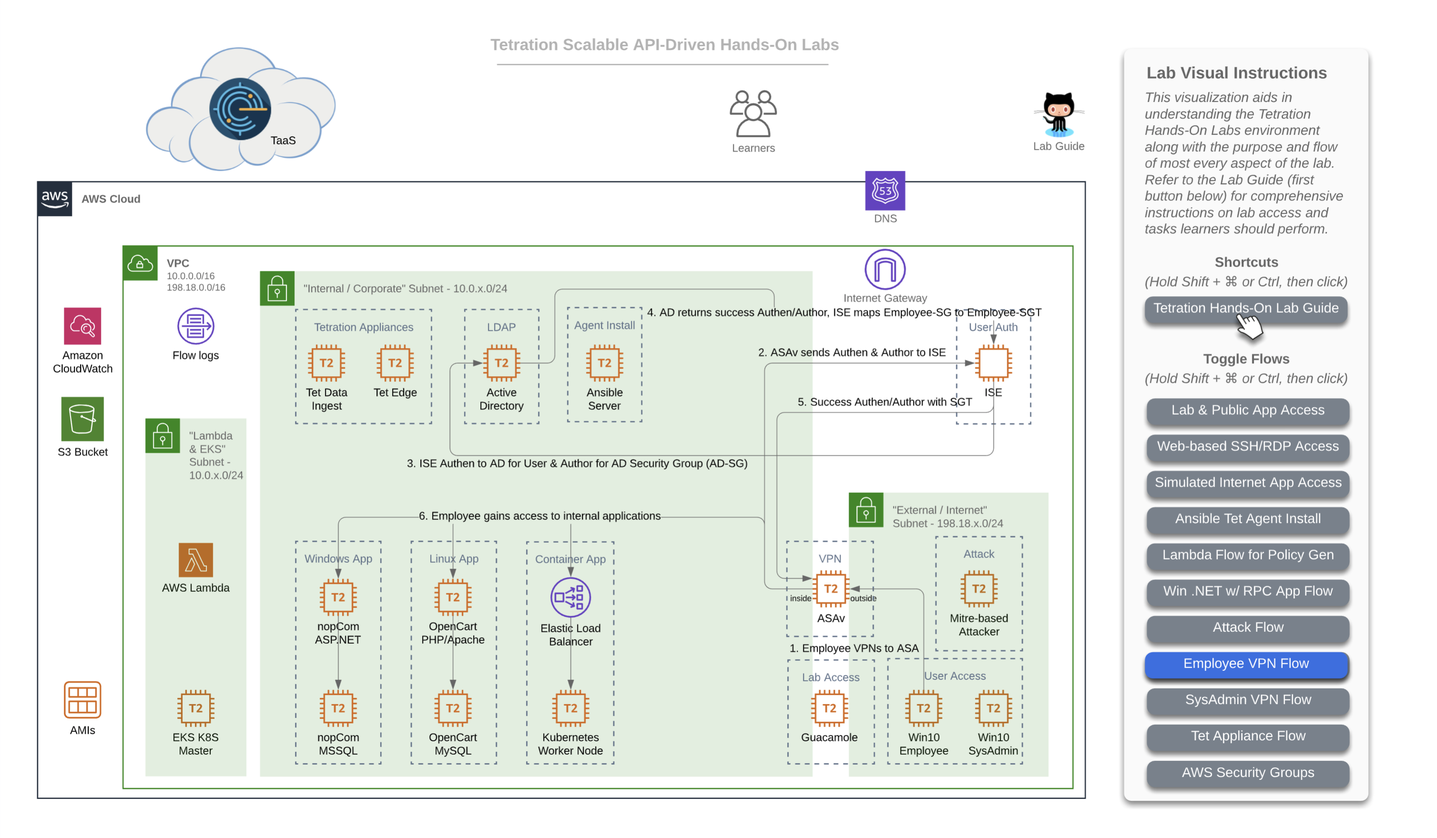
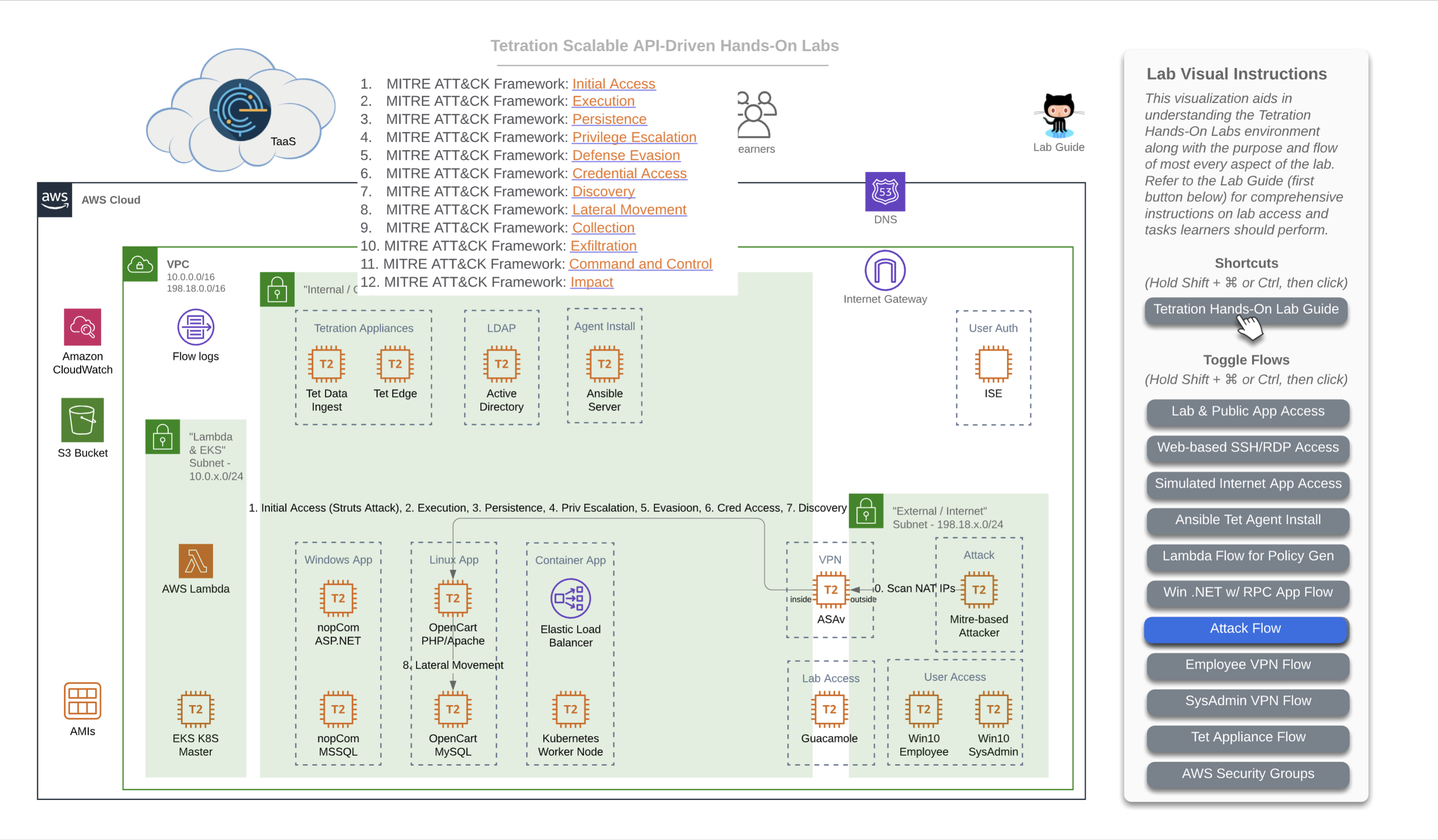
corrected numbering on diagrams readme

diff --git a/labguide/diagrams/README.md b/labguide/diagrams/README.md
@@ -3,108 +3,221 @@
 ## Diagrams
   
 
-### Steps for this Module  
-<a href="#step-000" style="font-weight:bold">Step 000</a>  
-<a href="#step-001" style="font-weight:bold">Step 001</a>  
-<a href="#step-002" style="font-weight:bold">Step 002</a>  
-<a href="#step-003" style="font-weight:bold">Step 003</a>  
-<a href="#step-004" style="font-weight:bold">Step 004</a>  
-<a href="#step-005" style="font-weight:bold">Step 005</a>  
-<a href="#step-006" style="font-weight:bold">Step 006</a>  
-<a href="#step-007" style="font-weight:bold">Step 007</a>  
-<a href="#step-008" style="font-weight:bold">Step 008</a>  
-<a href="#step-009" style="font-weight:bold">Step 009</a>  
-<a href="#step-010" style="font-weight:bold">Step 010</a>  
-<a href="#step-011" style="font-weight:bold">Step 011</a>  
-<a href="#step-012" style="font-weight:bold">Step 012</a>  
-<a href="#step-013" style="font-weight:bold">Step 013</a>  
+### Diagrams for this Module
+<a href="#diagram-001" style="font-weight:bold">Diagram 001 - Interactive Diagram Toggle Flows</a>  
+<a href="#diagram-002" style="font-weight:bold">Diagram 002 - Interactive Diagram Clickable Hotspots</a>  
+<a href="#diagram-003" style="font-weight:bold">Diagram 003 - Base Diagram</a>  
+<a href="#diagram-004" style="font-weight:bold">Diagram 004 - Access to TaaS, Lab Guide, and Public Access to Apps</a>  
+<a href="#diagram-005" style="font-weight:bold">Diagram 005 - Access to Lab Environment</a>  
+<a href="#diagram-006" style="font-weight:bold">Diagram 006 - Lab Simulated Internet Access</a>  
+<a href="#diagram-007" style="font-weight:bold">Diagram 007 - Tetration Agent Deployment via Ansible</a>  
+<a href="#diagram-008" style="font-weight:bold">Diagram 008 - Lambda Traffic Generation for ADM</a>  
+<a href="#diagram-009" style="font-weight:bold">Diagram 009 - Windows .NET App Flow with RPC Calls to AD</a>  
+<a href="#diagram-010" style="font-weight:bold">Diagram 010 - MITRE ATT&CK Framework-based Attack Flow</a>  
+<a href="#diagram-011" style="font-weight:bold">Diagram 011 - Simulated Internet "Employee" VPN Flow with ISE SGT Assignment</a>  
+<a href="#diagram-012" style="font-weight:bold">Diagram 012 - Simulated Internet "SysAdmin" VPN Flow with ISE SGT Assignment</a>  
+<a href="#diagram-013" style="font-weight:bold">Diagram 013 - Tetration Edge & Data Ingest Appliance Traffic Flows</a>  
+<a href="#diagram-014" style="font-weight:bold">Diagram 014 - AWS Security Groups for Lab Administrator</a>  
 
 
-<div class="step" id="step-000"><a href="#step-000" style="font-weight:bold">Step 000</a></div>  
 
-<a href="https://onstakinc.github.io/cisco-tetration-hol/labguide/diagrams/images/diagrams_000.png"><img src="https://onstakinc.github.io/cisco-tetration-hol/labguide/diagrams/images/diagrams_000.png" style="width:100%;height:100%;"></a>  
+The URL to access all of the workloads and assets for your lab environment are unique to you and will be provided to you by the lab administrator in a CSV or XLS format. 
+
+### Introduction to Lab Diagrams 
+
+Throughout this lab guide you will find diagrams that can be helpful in visualizing the flow of information for a given topic. These diagrams will generally be included in the context of the task where they might add value. However, you may also wish to occasionally come back to this page to view all of the diagrams in one go. 
+
+We recommend [Google Chrome](https://www.google.com/chrome/){:target="_blank"} for the best browsing experience.
+
+#### A note on image sizes
+If the images on any of the lab guide pages are too small, you may click on any image to open the link to its full size (fit to the browser window), and then click again if the magnifying glass shows up with a '+'. You also may prefer to see all images larger on any given page, in which case simply clicking `Ctrl +` multiple times on Windows, or `⌘ +` multiple times on a Mac, will zoom into the page size in most web browsers. However, it should be noted that if you zoom into the main documentation window, and then click on any image to open its native original, that the image may at that time be too large due to the zoom factor, and you may wish to zoom back out. To do so for Windows simply click `Ctrl -` multiple times, and for Mac click `⌘ -` multiple times, until you reach your desired size. Do note that this _may_ also change the zoom level of your main documentation window correspondingly and that you may wish to resize that window again to suit. 
+
+### Diagrams
+
+#### Live Interactive Diagram
+You may prefer to utilize [this interactive LucidChart diagram](https://www.lucidchart.com/documents/view/425e1b97-194e-413a-b793-0df939a87501){:target="_blank"} while working on various modules in this lab. It is possible that the interactive diagram may have slightly newer enhancements or modifications, depending on when you view, and should be considered to be the most reliable and up-to-date version, though every attempt will be made to take static screenshots and update those here, as often as possible. Should you choose to use the interactive diagram, follow the instructions on right of the diagram to toggle on/off various "flows", as seen in this image:
+
+<div class="diagram" id="diagram-001"><a href="#diagram-001" style="font-weight:bold">Diagram 001</a></div><a href="https://onstakinc.github.io/cisco-tetration-hol/labguide/diagrams/images/diagrams_001.png"><img src="https://onstakinc.github.io/cisco-tetration-hol/labguide/diagrams/images/diagrams_001.png" style="width:35%;height:35%;"></a>  
   
+To toggle flows on/off, follow the instructions for depending on whether you are using a Windows machine or a Mac. For Windows, press and hold `Shift + Ctrl`, then click. For Mac, press and hold `Shift + ⌘`, then click. When you press these key combinations, you should see the clickable links in the panel turn a sort of greenish color, as such:
+
+<div class="diagram" id="diagram-002"><a href="#diagram-002" style="font-weight:bold">Diagram 002</a></div><a href="https://onstakinc.github.io/cisco-tetration-hol/labguide/diagrams/images/diagrams_002.png"><img src="https://onstakinc.github.io/cisco-tetration-hol/labguide/diagrams/images/diagrams_002.png" style="width:35%;height:35%;"></a>  
 
 
-<div class="step" id="step-001"><a href="#step-001" style="font-weight:bold">Step 001</a></div>  
+#### Base Diagram
 
-<a href="https://onstakinc.github.io/cisco-tetration-hol/labguide/diagrams/images/diagrams_001.png"><img src="https://onstakinc.github.io/cisco-tetration-hol/labguide/diagrams/images/diagrams_001.png" style="width:100%;height:100%;"></a>  
-  
+<div class="diagram" id="diagram-003"><a href="#diagram-003" style="font-weight:bold">Diagram 003</a></div>  
 
+As mentioned, here are are a collection of the diagram with each flow enabled, for concise reference. 
 
-<div class="step" id="step-002"><a href="#step-002" style="font-weight:bold">Step 002</a></div>  
-
-<a href="https://onstakinc.github.io/cisco-tetration-hol/labguide/diagrams/images/diagrams_002.png"><img src="https://onstakinc.github.io/cisco-tetration-hol/labguide/diagrams/images/diagrams_002.png" style="width:100%;height:100%;"></a>  
-  
-
-
-<div class="step" id="step-003"><a href="#step-003" style="font-weight:bold">Step 003</a></div>  
+This first image is the base diagram which references the environment that _each_ learner will have access to. Note that every item you see here is completely unique and independant for each and every learner. This includes Windows VMs, Linux VMs, Active Directory, Ansible, ASAv, Tetration appliances, Lambda, Kubernetes - all of it. Each learner will also have their own unique instance of TaaS (Tetration-as-a-Service), as well. 
 
 <a href="https://onstakinc.github.io/cisco-tetration-hol/labguide/diagrams/images/diagrams_003.png"><img src="https://onstakinc.github.io/cisco-tetration-hol/labguide/diagrams/images/diagrams_003.png" style="width:100%;height:100%;"></a>  
   
 
+#### Incremental Diagrams with Flows
 
-<div class="step" id="step-004"><a href="#step-004" style="font-weight:bold">Step 004</a></div>  
+<div class="diagram" id="diagram-004"><a href="#diagram-004" style="font-weight:bold">Diagram 004</a></div>  
+
+> NOTE: The URL to access all of the workloads and assets for your lab environment are unique to you and will be provided to you by the lab administrator in a CSV or XLS format. 
+
+This is the flow that for a learner (that's you) accessing the lab environment. You will have been provided a unique URL and login for your TaaS instance, and will access it directly given that information (step 1 in this diagram). Step 2 in this diagram shows you accesing the lab guide documentation, which we will assume you have managed somehow since you are reading this on that documentation site, which is hosted with GitHub Pages. Step 3 on the diagram shows you accessing the three applications that you have unique to your lab environment. You will be able to access each of the apps directly from your local laptop/workstation. Later on you will also find that you will be able to access each app from the two Win10 "User Access" machines pictured at the bottom right in the simulated "External / Internet" Subnet - 198.18.x.0/24". 
 
 <a href="https://onstakinc.github.io/cisco-tetration-hol/labguide/diagrams/images/diagrams_004.png"><img src="https://onstakinc.github.io/cisco-tetration-hol/labguide/diagrams/images/diagrams_004.png" style="width:100%;height:100%;"></a>  
   
+As you can see from the diagram above, your lab contains one of each of the following apps:
+
+   1. Windows app - "nopCommerce" - consisting of: 
+      *  Win19 IIS App server
+      *  Win19 MS SQL DB server
+   2. Linux app - "OpenCart" - consisting of: 
+      *  CentOS 7 Apache App server
+      *  CentOS 7 MySQL DB server
+   3. Microservices Container app on Kubernetes - "Sock Shop" - consisting of: 
+      *  Front End service
+      *  Payment service
+      *  Shipping service
+      *  Queuemaster service
+      *  RabbitMQ service
+      *  Orders service
+         *  Orders App
+         *  Orders DB
+      *  User service
+         *  User App
+         *  User DB
+      *  Catalog service
+         *  Catalog App
+         *  Catalog DB
+      *  Carts service
+         *  Carts App
+         *  Carts DB
 
 
-<div class="step" id="step-005"><a href="#step-005" style="font-weight:bold">Step 005</a></div>  
+<div class="diagram" id="diagram-005"><a href="#diagram-005" style="font-weight:bold">Diagram 005</a></div>  
+
+This diagram depicts how you will gain access to the workloads running in your lab environment. Access to this lab environment will be done entirely from your web browser using the open-source [Apache Guacamole](https://guacamole.apache.org/){:target="_blank"}. We'll refer to this often as just "Guac".
+
+This will be either to the desktop via RDP in the case of a Windows machine or to the shell via SSH in the case of a Linux machine. Access will always be via your web browser where RDP and SSH will be proxied. Note that copy/paste will work from your local laptop/workstation to the remote desktop or shell. This goes for file transfer, as well. For copy/paste, simply copy something to your local workstation clipboard, navigate to the RDP desktop via the web browser, and paste the item as usual using `Ctrl + V`. Simalar functionality will exist for pasting to an SSH session via the browser, simply `right-click` to paste. Finally, to make a file transfer, simply drag a file from your local workstation over to the RDP or SSH session and the file should copy over remotely. 
+
 
 <a href="https://onstakinc.github.io/cisco-tetration-hol/labguide/diagrams/images/diagrams_005.png"><img src="https://onstakinc.github.io/cisco-tetration-hol/labguide/diagrams/images/diagrams_005.png" style="width:100%;height:100%;"></a>  
   
 
 
-<div class="step" id="step-006"><a href="#step-006" style="font-weight:bold">Step 006</a></div>  
+<div class="diagram" id="diagram-006"><a href="#diagram-006" style="font-weight:bold">Diagram 006</a></div>  
+
+This diagram depicts you accessing each of the three apps in your lab env from either of the two Win10 "User Access" machines pictured at the bottom right in the simulated "External / Internet" Subnet - 198.18.x.0/24". You will first need to gain access to the Win10 desktops via RDP and that will naturally be accomplished via your web browser using Guac. 
 
 <a href="https://onstakinc.github.io/cisco-tetration-hol/labguide/diagrams/images/diagrams_006.png"><img src="https://onstakinc.github.io/cisco-tetration-hol/labguide/diagrams/images/diagrams_006.png" style="width:100%;height:100%;"></a>  
   
 
 
-<div class="step" id="step-007"><a href="#step-007" style="font-weight:bold">Step 007</a></div>  
+<div class="diagram" id="diagram-007"><a href="#diagram-007" style="font-weight:bold">Diagram 007</a></div>  
+
+This diagram depicts how you will deploy Tetration Agents out to each of your workloads in your lab environment. Deployment will occur by performing the following tasks:
+   1. Connect to the Guac server via HTTPS
+   2. Click on and connecting to the Ansible machine
+   3. Verify and, if necessary, edit the inventory for deployment by first changing directories with `cd /opt/ansible-tetration-sensor/` running `sudo nano inventory/hosts` and when prompted with `[sudo] password for ciscolab:`, entering the standard lab password of `tet123$$!`. 
 
 <a href="https://onstakinc.github.io/cisco-tetration-hol/labguide/diagrams/images/diagrams_007.png"><img src="https://onstakinc.github.io/cisco-tetration-hol/labguide/diagrams/images/diagrams_007.png" style="width:100%;height:100%;"></a>  
-  
+
+The Ansible machine is already configured to deploy agents out to the following workloads by OS:
+
+   * Windows 2019
+      * nopCommerce IIS server
+      * nopCommerce MSSQL server
+      * Active Directory server
+   * CentOS 7
+      * OpenCart Apache server
+      * OpenCart MySQL server
+      * Ansible Automation server (itself)
+   * Ubuntu 16.04
+      * EKS Worker Node
 
 
-<div class="step" id="step-008"><a href="#step-008" style="font-weight:bold">Step 008</a></div>  
+<div class="diagram" id="diagram-008"><a href="#diagram-008" style="font-weight:bold">Diagram 008</a></div>  
+
+This diagram depicts how AWS Lambda (aka 'Serverles') plays nice with Tetration from a policy perspective. AWS requires that you assign a VPC-created subnet to Lambda in order to use when it comes online to perform an event-driven function. In our lab, we have configured the triggering event to be time - specifically that every 60 seconds two functions are run using Node.js and they each make a single HTTPS call, one to the Windows-based nopCommerce app and the other to the Linux-based OpenCart app. This is helpful in two ways - firstly in that it allows us to include the concept of adding logic to your Tetration policy that accounts for AWS Serverless technologies, and secondly in that it actually ensures that there is constant traffic hitting these two applications and ensuring that there is plenty of flow data present in the Tetration collectors when it's time for you to run ADM for each app in order to generate that policy. If you're wondering why we don't have a function calling the Container-based Sock Shop app, it's due to the fact that Tetration agents do not collect flow telemetry information from container workloads and therefore wouldn't have much value since running ADM for container apps is a moot point, and needing to manually generate policy for these apps to include allowing serverless sources such as Lambda would have already been covered by the other two apps. 
 
 <a href="https://onstakinc.github.io/cisco-tetration-hol/labguide/diagrams/images/diagrams_008.png"><img src="https://onstakinc.github.io/cisco-tetration-hol/labguide/diagrams/images/diagrams_008.png" style="width:100%;height:100%;"></a>  
   
 
 
-<div class="step" id="step-009"><a href="#step-009" style="font-weight:bold">Step 009</a></div>  
+<div class="diagram" id="diagram-009"><a href="#diagram-009" style="font-weight:bold">Diagram 009</a></div>  
+
+This diagram is an important one because it depicts the flow that is both specific to, and critical for Microsoft server applications. Microsoft uses a range of 16,383 ports for a technology known as "RPC" or "Remote Procedure Calls". Specifically, they use TCP ports 49195-65535.  While RPC is not a Microsoft protocol and not unique to only Microsoft workloads, it is most commonly found in environments that have Windows servers. In fact, it could easily be said that almost _every_ data center and cloud environment that has Windows server workloads will almost certainly be utilitizing their version of RPC - namely MSRPC. Since the destination port for RPC is dynamically chosen at execution time, and because that port can fall anywhere in the above mentioned range, it is critical that policy generated by Tetration includes these destination port ranges for virtually any Windows server that needs to communicate with an Active Directory Domain Controller using Windows Server domains protocols - such as authentication. While not every server necessarily needs to authenticate often, when necessary it is critical that it be allowed to do so. We want to ensure that these AD servers have policy instantiated that allow other windows servers (and workstation clients) to communicate with them on these ports. 
+
+In our case, we have the MS-SQL server set to use Domain Authentication rather than the built-in SA (System Account) user, which we have seen time and again in corporate environments, because it allows DBAs and domain admins to easily update passwords in a central location that databases distributed across the organization all use, rather than reaching out to every SQL server and updating the local SA account password when necessary (say in the event that a DBA moves on from the org). 
+
+Another common place you may find RPC in use is with NFS. You will likely encounter the usage of RPC in many other environments and should be on the lookout for it and other ephemeral port-range protocols like it. A quick parting thought is that you should look out for other ephemeral port "hopping" protocols besides RPC, when building policy in a production deployment of Tetration. A quick example that comes to mind is "RTP" or "Real Time Protocol". RTP and its sister - RTCP (Real Time Control Protocol) together use a range of UCP ports from 16384-32767, and will likely be found anywhere that VoIP is used - such as with IP Phones and Telepresence units talking to one another as well as a slew of other devices such as voice gateways and call recorders. 
 
 <a href="https://onstakinc.github.io/cisco-tetration-hol/labguide/diagrams/images/diagrams_009.png"><img src="https://onstakinc.github.io/cisco-tetration-hol/labguide/diagrams/images/diagrams_009.png" style="width:100%;height:100%;"></a>  
   
 
 
-<div class="step" id="step-010"><a href="#step-010" style="font-weight:bold">Step 010</a></div>  
+<div class="diagram" id="diagram-010"><a href="#diagram-010" style="font-weight:bold">Diagram 010</a></div>  
+
+This diagram depicts the flow of traffic that will be used during the lab that calls for you to initiate a live attack from the Kali Linux server running the Metasploit toolkit. This will demonstrate the [MITRE ATT&CK Framework](https://attack.mitre.org/){:target="_blank"} that has been defined by the not-for-profit organization called Mitre Corporation - whose charters and funding come from (among other places) [NIST](https://www.nist.gov/){:target="_blank"}. This is also the organization that maintains ["CVEs" or "Common Vulnerabilities and Exposures"](https://cve.mitre.org/){:target="_blank"} as a part of the ["NVD" or "National Vulnerability Database"](https://nvd.nist.gov/){:target="_blank"}. This framework articulates the systematic approach that virtually every breach consists of. 
+
+This consists of:
+1. Initial Access
+2. Execution
+3. Persistence
+4. Privilege Escalation
+5. Defense Evasion
+6. Credential Access
+7. Discovery
+8. Lateral Movement
+9. Collection
+10. Command and Control
+11. Exfiltration
+12. Impact
+
+You will use this diagram when performing the lab that will have you attack a known vulnerability running on the server hosting the OpenCart webapp tier and then continuing on to accomplish lateral movement to other higher-value targets, such as the DB containing customer info with PII. 
 
 <a href="https://onstakinc.github.io/cisco-tetration-hol/labguide/diagrams/images/diagrams_010.png"><img src="https://onstakinc.github.io/cisco-tetration-hol/labguide/diagrams/images/diagrams_010.png" style="width:100%;height:100%;"></a>  
   
 
 
-<div class="step" id="step-011"><a href="#step-011" style="font-weight:bold">Step 011</a></div>  
+<div class="diagram" id="diagram-011"><a href="#diagram-011" style="font-weight:bold">Diagram 011</a></div>  
+
+This diagram depicts the flow of traffic that will be used during the lab that has you use the general "Employee" machine outside of the ASAv firewall in your lab-simulated "Internet" to VPN into the organization and gain access via user-identification based policy which relies on ISE authenticating to Windows Active Directory and mapping the AD Security Group (AD-SG) to the ISE TrustSec Security Group (TrustSec-SG). Upon successful authentication and mapping of an AD-SG to an ISE TrustSec-SG, a SGT or Security Group Tag will be assigned, which is a numerical value. This SGT is what will be used by Tetration in creating policy to allow certain users access to certain defined resources. Whenever a user gets both authenticated (ID verification) and authorized (permissions granted via group mapping) by ISE to a SGT, ISE will update its ["pxGrid" or "Platform Group Exchange Grid"](https://www.cisco.com/c/en/us/products/security/pxgrid.html){:target="_blank"} and those subscribed to that grid -which in this case is Tetration- will get an updated list of Users, their SGTs, and their IP Addresses, among a slew of other information. Tetration will then use the IP addresses of these hosts to update various workload firewall rules where enforcement is in place. 
+
+In this lab diagram, Employees get standard access to the app front-ends and no more - essentially what everyone else gets. 
 
 <a href="https://onstakinc.github.io/cisco-tetration-hol/labguide/diagrams/images/diagrams_011.png"><img src="https://onstakinc.github.io/cisco-tetration-hol/labguide/diagrams/images/diagrams_011.png" style="width:100%;height:100%;"></a>  
   
 
 
-<div class="step" id="step-012"><a href="#step-012" style="font-weight:bold">Step 012</a></div>  
+<div class="diagram" id="diagram-012"><a href="#diagram-012" style="font-weight:bold">Diagram 012</a></div>  
+
+> TL;DR - this is the same info except for the last sentance, so skip it if you read the above diagram.
+
+This diagram depicts the flow of traffic that will be used during the lab that has you use the general "Employee" machine outside of the ASAv firewall in your lab-simulated "Internet" to VPN into the organization and gain access via user-identification based policy which relies on ISE authenticating to Windows Active Directory and mapping the AD Security Group (AD-SG) to the ISE TrustSec Security Group (TrustSec-SG). Upon successful authentication and mapping of an AD-SG to an ISE TrustSec-SG, a SGT or Security Group Tag will be assigned, which is a numerical value. This SGT is what will be used by Tetration in creating policy to allow certain users access to certain defined resources. Whenever a user gets both authenticated (ID verification) and authorized (permissions granted via group mapping) by ISE to a SGT, ISE will update its ["pxGrid" or "Platform Group Exchange Grid"](https://www.cisco.com/c/en/us/products/security/pxgrid.html){:target="_blank"} and those subscribed to that grid -which in this case is Tetration- will get an updated list of Users, their SGTs, and their IP Addresses, among a slew of other information. Tetration will then use the IP addresses of these hosts to update various workload firewall rules where enforcement is in place. 
+
+In this lab diagram, SysAdmins not only get standard access to the app front-ends, but they also gain RDP and/or SSH access to each app's frontend workload as well as the backend databases, so that they can properly perform necessary administration. 
 
 <a href="https://onstakinc.github.io/cisco-tetration-hol/labguide/diagrams/images/diagrams_012.png"><img src="https://onstakinc.github.io/cisco-tetration-hol/labguide/diagrams/images/diagrams_012.png" style="width:100%;height:100%;"></a>  
   
 
 
-<div class="step" id="step-013"><a href="#step-013" style="font-weight:bold">Step 013</a></div>  
+<div class="diagram" id="diagram-013"><a href="#diagram-013" style="font-weight:bold">Diagram 013</a></div>  
+
+This diagram depicts the flow of traffic used by various devices to utimately ingest information into the Tetration cluster. The Tetration Edge appliance is used to subscribe to the pxGrid from ISE for SGT and user-based policy. The Tetration Data Ingest appliance is used to collect NetFlow v9 info from the ASAv which is useful in stitching together flows of traffic from outside the firewall all the way through being NAT'd by that ASAv and then traversing to the internal corporate network and making their way to app frontends. This same Tetration Data Ingest appliance is used to collect Flow Logs from an AWS VPC via an S3 bucket. This is useful for collecting traffic from any workload that may not have (or be able to have) a Tetration agent installed on it. 
 
 <a href="https://onstakinc.github.io/cisco-tetration-hol/labguide/diagrams/images/diagrams_013.png"><img src="https://onstakinc.github.io/cisco-tetration-hol/labguide/diagrams/images/diagrams_013.png" style="width:100%;height:100%;"></a>  
   
 
 
+<div class="diagram" id="diagram-014"><a href="#diagram-014" style="font-weight:bold">Diagram 014</a></div>  
+
+This diagram depicts the AWS Security Groups that help to keep this intentionally open lab environment from being completely pwned before a learner can properly create and enforce Tetration policy.
+
+<a href="https://onstakinc.github.io/cisco-tetration-hol/labguide/diagrams/images/diagrams_014.png"><img src="https://onstakinc.github.io/cisco-tetration-hol/labguide/diagrams/images/diagrams_014.png" style="width:100%;height:100%;"></a>  
   
 
-[Continue to the Next Module](https://onstakinc.github.io/cisco-tetration-hol/labguide/{next_module}/)  
+
+[Continue to the Next Module](https://onstakinc.github.io/cisco-tetration-hol/labguide/module01/)
+
+
 [Return to Table of Contents](https://onstakinc.github.io/cisco-tetration-hol/labguide/)

diff --git a/labguide/diagrams/README.save.md b/labguide/diagrams/README.save.md
@@ -217,5 +217,7 @@ This diagram depicts the AWS Security Groups that help to keep this intentionall
   
 
 
-  
+[Continue to the Next Module](https://onstakinc.github.io/cisco-tetration-hol/labguide/module01/)
+
+
 [Return to Table of Contents](https://onstakinc.github.io/cisco-tetration-hol/labguide/)
